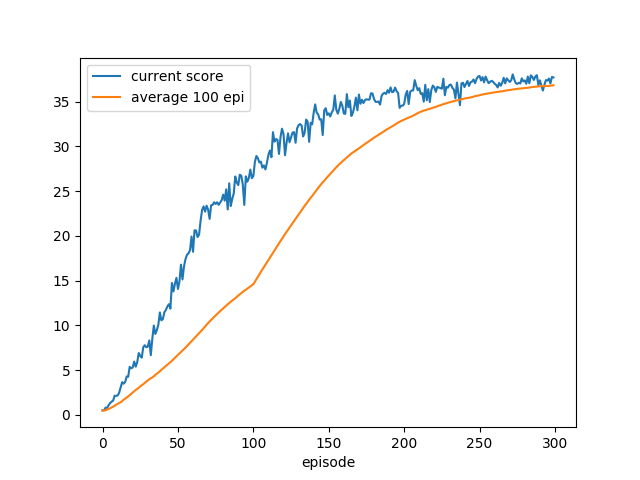
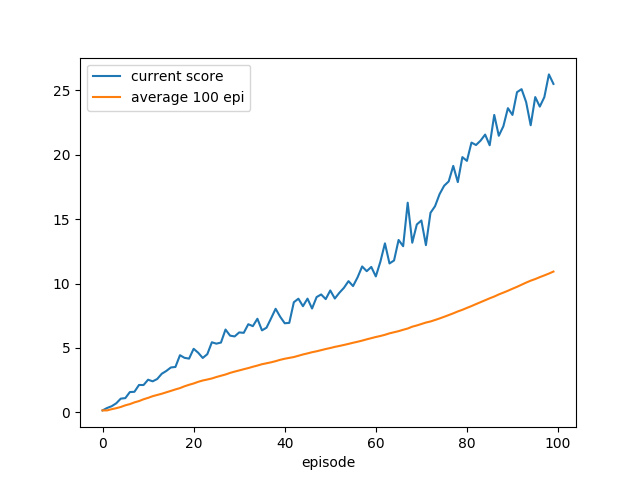
running externally additions

diff --git a/testDRLs2/reacher-ppo/Solution.py b/testDRLs2/reacher-ppo/Solution.py
@@ -16,41 +16,30 @@ from IPython.display import clear_output
 from model import PPOPolicyNetwork
 from agent import PPOAgent
 
-## Create Unity environment
-env = UnityEnvironment(file_name="Reacher_Linux_multAgents/Reacher.x86_64")
-# env = UnityEnvironment(file_name="Reacher_Linux_1agent/Reacher.x86_64")
-brain_name = env.brain_names[0]
-brain = env.brains[brain_name]
-env_info = env.reset(train_mode=True)[brain_name]
 
-# Set configurations:
-config = {
-    'environment': {
-        'state_size':  env_info.vector_observations.shape[1],
-        'action_size': brain.vector_action_space_size,
-        'number_of_agents': len(env_info.agents)
-    },
-    'pytorch': {
-        'device': torch.device("cuda:0" if torch.cuda.is_available() else "cpu")
-    },
-    'hyperparameters': {
-        'discount_rate': 0.99,
-        'tau': 0.95,
-        'gradient_clip': 5,
-        'rollout_length': 2048,
-        'optimization_epochs': 10,
-        'ppo_clip': 0.2,
-        'log_interval': 2048,
-        'max_steps': 1e5,
-        'mini_batch_number': 32,
-        'entropy_coefficent': 0.01,
-        'episode_count': 250*6,
-        'hidden_size': 512,
-        'adam_learning_rate': 3e-4,
-        'adam_epsilon': 1e-5
+def initializeEnv():
+    ## Create Unity environment
+    env = UnityEnvironment(file_name="Reacher_Linux_multAgents/Reacher.x86_64")
+    # env = UnityEnvironment(file_name="Reacher_Linux_1agent/Reacher.x86_64")
+    brain_name = env.brain_names[0]
+    brain = env.brains[brain_name]
+    env_info = env.reset(train_mode=True)[brain_name]
+
+    # Set configurations:
+    config = {
+        'environment': {
+            'state_size':  env_info.vector_observations.shape[1],
+            'action_size': brain.vector_action_space_size,
+            'number_of_agents': len(env_info.agents)
+        }
     }
-}
 
+    return env, brain, brain_name, config
+
+def merge_cnfg(config_trgt, config_ref=None):
+    for key in config_ref.keys():
+        config_trgt[key] = config_ref[key]
+    return config_trgt
 
 def play_round(env, brain_name, policy, config, train=True):
     env_info = env.reset(train_mode=train)[brain_name]
@@ -111,16 +100,51 @@ def arg_parse():
                         dest='pltLrn')
     parser.add_argument('--playRound', help='play round of last learned policy', action='store_true', default=True,
                         dest='playRound')
+    parser.add_argument('--numEpisodes', help='number of episodes for this session (default = 100)', action='store', default=100,
+                        dest='numEpisodes', type=int)
 
-    return parser.parse_args()
+    args = parser.parse_args()
 
-if __name__=='__main__':
+    # Set configurations:
+    config = {
+        'pytorch': {
+            'device': torch.device("cuda:0" if torch.cuda.is_available() else "cpu")
+        },
+        'hyperparameters': {
+            'discount_rate': 0.99,
+            'tau': 0.95,
+            'gradient_clip': 5,
+            'rollout_length': 2048,
+            # 'optimization_epochs': 10,
+            'ppo_clip': 0.2,
+            'log_interval': 2048,
+            'max_steps': 1e5,
+            'mini_batch_number': 32,
+            'entropy_coefficent': 0.01,
+            'episode_count': 100,
+            'hidden_size': 512,
+            'adam_learning_rate': 3e-4,
+            'adam_epsilon': 1e-5
+        }
+    }
 
-    args = arg_parse()
+    if args.numEpisodes is not None:
+        config['hyperparameters']['episode_count'] = args.numEpisodes
+
+
+    return args, config
+
+
+if __name__ == '__main__':
+
+
+
+    args, config = arg_parse()
 
     if args.learnNewPolicy:
+        env, brain, brain_name, config_env = initializeEnv()
+        config = merge_cnfg(config, config_env)
         print("Learning new policy...")
-        config['hyperparameters']['episode_count'] = 300
         new_policy = PPOPolicyNetwork(config)
         all_scores, average_scores = ppo(env, brain_name, new_policy, config, train=True)
 
@@ -136,6 +160,7 @@ if __name__=='__main__':
         plt.xlabel('episode')
         plt.savefig('learning_rates.png')
         plt.show()
+        env.close()
 
     if args.pltLrn:
         with open('results.pckl', 'rb') as fid:
@@ -148,9 +173,12 @@ if __name__=='__main__':
         plt.show()
 
     if args.playRound:
+        env, brain, brain_name, config_env = initializeEnv()
+        config = merge_cnfg(config, config_env)
         policy = PPOPolicyNetwork(config)
         policy.load_state_dict(torch.load('reacher-ppo/models/ppo-max-hiddensize-512_score38.pth'))
         _, _ = ppo(env, brain_name, policy, config, train=False)
+        env.close()
 
     # if False:
     #     policy = PPOPolicyNetwork(config)

diff --git a/testDRLs2/reacher-ppo/model.py b/testDRLs2/reacher-ppo/model.py
@@ -28,15 +28,15 @@ class PPOPolicyNetwork(nn.Module):
         state_size = config['environment']['state_size']
         action_size = config['environment']['action_size']
         hidden_size = config['hyperparameters']['hidden_size']
-        device = config['pytorch']['device']
+        self.device = config['pytorch']['device']
 
         self.actor_body = FullyConnectedNetwork(state_size, action_size, hidden_size, F.tanh)
         self.critic_body = FullyConnectedNetwork(state_size, 1, hidden_size)  
         self.std = nn.Parameter(torch.ones(1, action_size))
-        self.to(device)
+        self.to(self.device)
 
     def forward(self, obs, action=None):
-        obs = torch.Tensor(obs)
+        obs = torch.Tensor(obs).to(self.device)
         a = self.actor_body(obs)
         v = self.critic_body(obs)
         
@@ -46,4 +46,4 @@ class PPOPolicyNetwork(nn.Module):
         log_prob = dist.log_prob(action)
         log_prob = torch.sum(log_prob, dim=1, keepdim=True)
 
-            return action, log_prob, dist.entropy().sum(-1).unsqueeze(-1), v
+        return action, log_prob, dist.entropy().sum(-1).unsqueeze(-1), v
